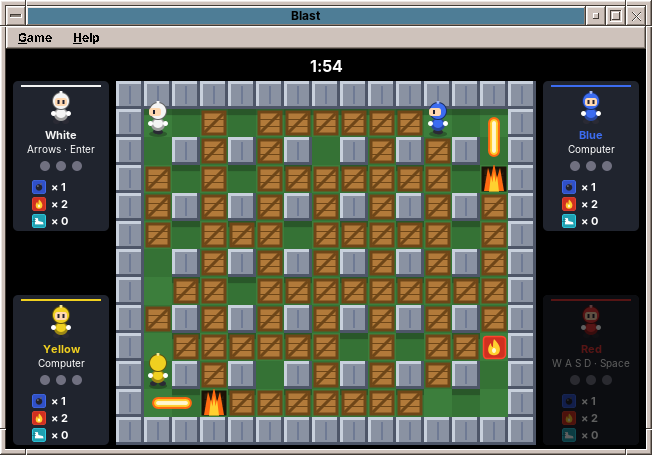
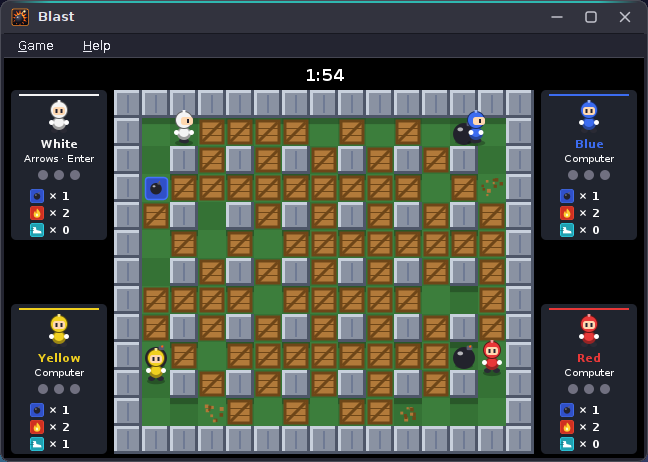
docs(readme): show the Horizon look in the screenshots
The screenshots in docs/screenshots (used by the README and the AppStream
metainfo) showed the classic CDE look. They are replaced by shots in the
Horizon look, Dark scheme; a README without a picture gets one.

Claude-Session: https://claude.ai/code/session_017Pd6NcKy4y87wY8jkALjpZ

diff --git a/README.md b/README.md
@@ -5,6 +5,8 @@
 ![License](https://img.shields.io/badge/license-EUPL--1.2-blue)
 ![Java](https://img.shields.io/badge/Java-25-orange)
 
+![Blast](docs/screenshots/amade-blast-game.png)
+
 ## Playing
 
 - **Space**, **Enter** or button **A** on a gamepad opens the lobby. Everybody who wants to play presses their bomb key or button once to take a seat, and once more to start. **C** switches the computer players in the empty seats on or off; without them two people are needed.
